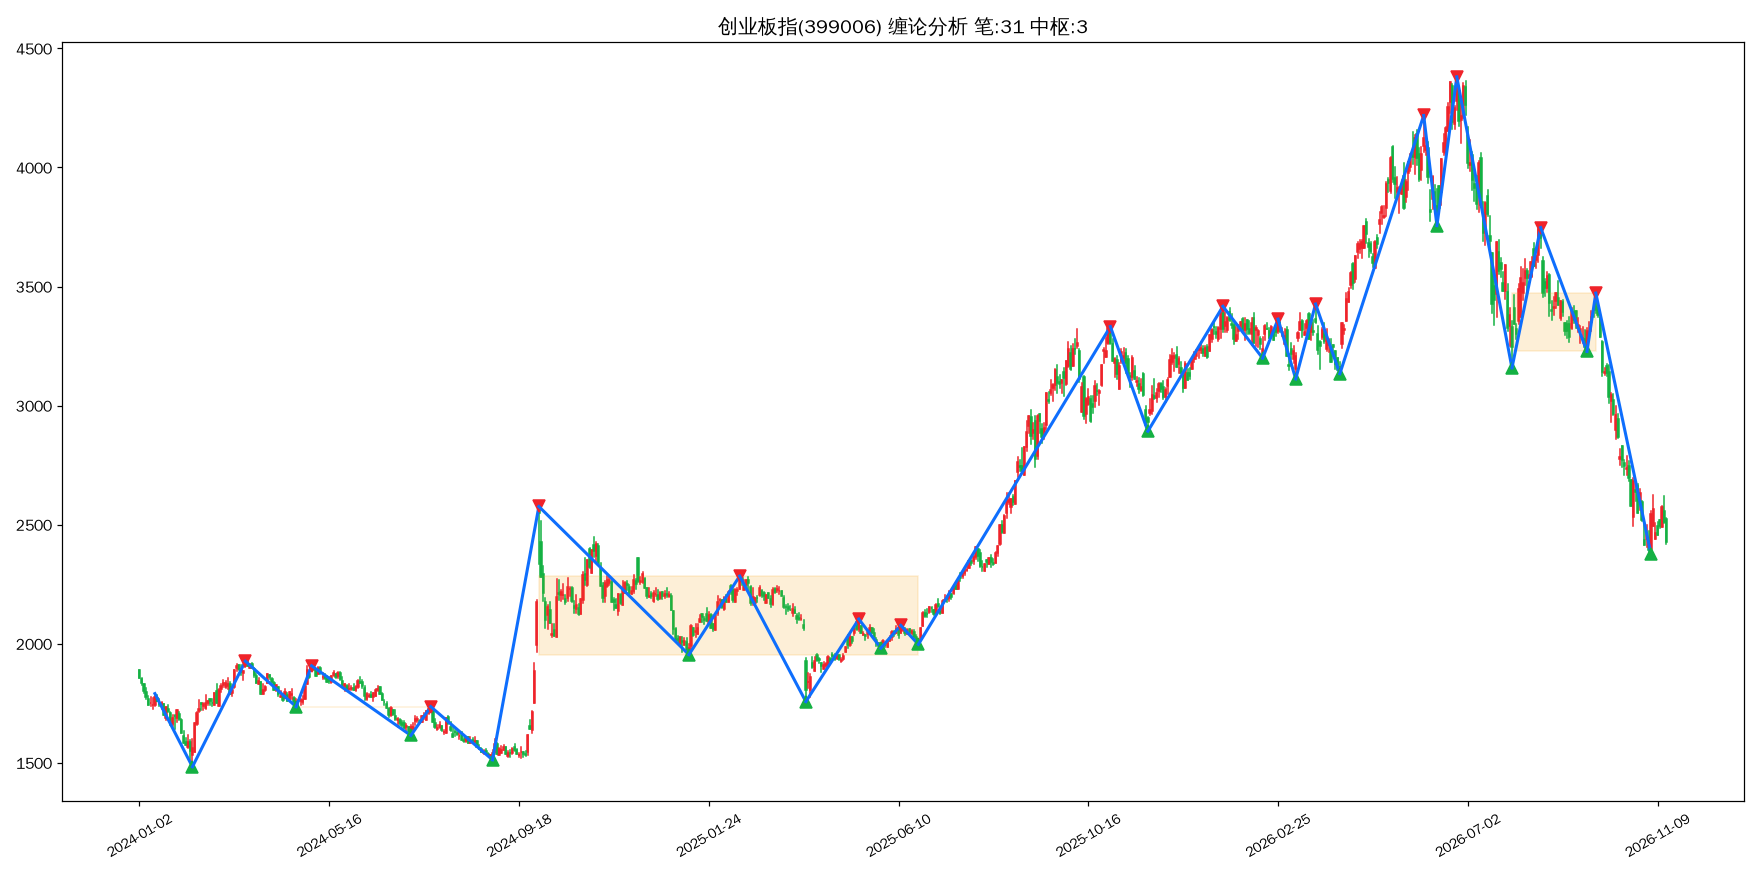
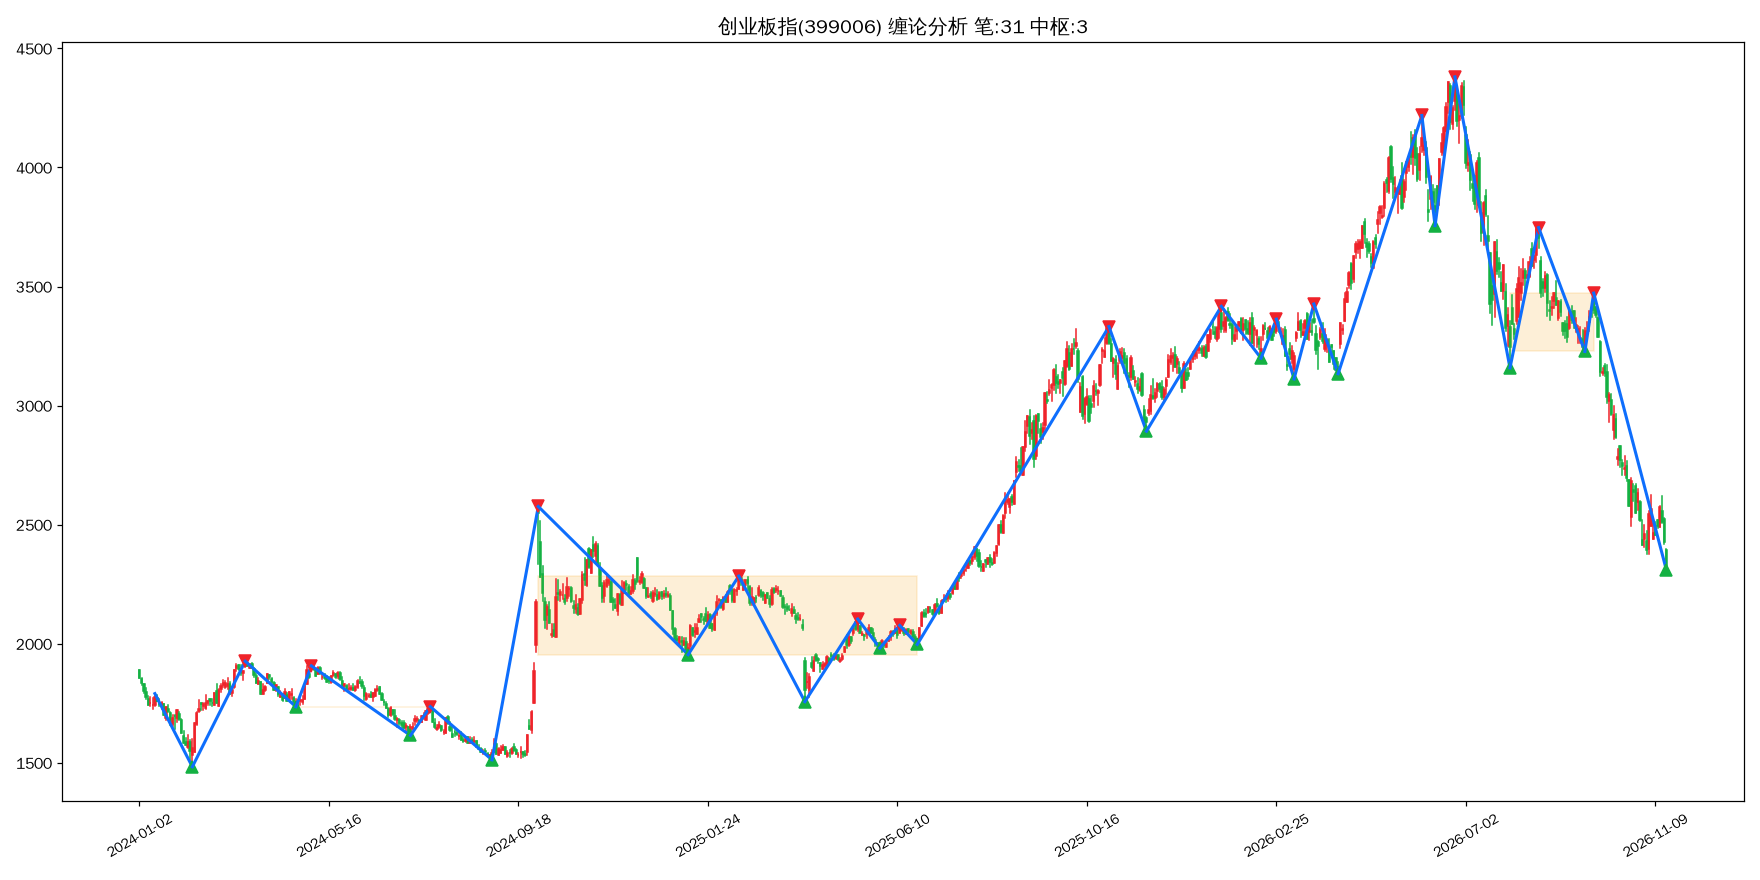
自动更新缠论日报与配图

diff --git a/chan_report.md b/chan_report.md
@@ -118,11 +118,29 @@
 - 三类买卖点识别：**卖1类@2025-10-09(13725.56)、卖2类@2025-10-30(13532.13)、卖1p类@2026-06-22(16372.50)、卖2类@2026-08-18(14622.50)、卖2s类@2026-09-22(13723.74)、买1类@2026-11-03(10876.99)**
 ![深证指数缠论图谱](chan_img/399001_深证指数.png)
 
-## 创业板指(399006)
-❌ 创业板指 分析失败：ConnectionError: 所有数据源失败: index_zh_a_hist: AttributeError: index_zh_a_hist 已在 1.20.44 更名为 index_zh_hist_em，请改用 ak.index_zh_hist_em；参数与返回的列也 | stock_zh_index_daily: AttributeError: stock_zh_index_daily 已在 1.20.44 更名为 i
+## 创业板指（399006）
+- 最新收盘价：2320.02
+- 有效K线数量：694
+- 笔总数：31 | 中枢总数：3
+- 最新一笔走势：下跌 | 2026-09-22~2026-11-16 | 3472.47 → 2308.90
+- 缠论背驰判断：**无背驰**
+- 三类买卖点识别：**买1类@2024-08-29(1541.40)、买2,3b类@2025-01-13(1982.46)、买2s类@2025-04-07(1807.21)、买2s类@2025-05-28(1985.38)、买2s类@2025-06-23(2017.63)、买3a类@2025-11-24(2929.04)、卖1p类@2026-01-13(3321.89)、卖2类@2026-02-25(3354.82)、买1类@2026-11-16(2320.02)**
+![创业板指缠论图谱](chan_img/399006_创业板指.png)
 
-## 沪深300(000300)
-❌ 沪深300 分析失败：ConnectionError: 所有数据源失败: index_zh_a_hist: AttributeError: index_zh_a_hist 已在 1.20.44 更名为 index_zh_hist_em，请改用 ak.index_zh_hist_em；参数与返回的列也 | stock_zh_index_daily: AttributeError: stock_zh_index_daily 已在 1.20.44 更名为 i
+## 沪深300（000300）
+- 最新收盘价：3979.804
+- 有效K线数量：694
+- 笔总数：43 | 中枢总数：4
+- 最新一笔走势：下跌 | 2026-11-05~2026-11-16 | 4136.80 → 3959.93
+- 缠论背驰判断：**无背驰**
+- 三类买卖点识别：**卖1类@2026-01-13(4761.03)、卖2类@2026-02-25(4735.89)、卖2s类@2026-03-17(4637.44)、买1类@2026-10-23(4105.33)、买2类@2026-11-16(3979.80)**
+![沪深300缠论图谱](chan_img/000300_沪深300.png)
 
-## 上证50(000016)
-❌ 上证50 分析失败：ConnectionError: 所有数据源失败: index_zh_a_hist: AttributeError: index_zh_a_hist 已在 1.20.44 更名为 index_zh_hist_em，请改用 ak.index_zh_hist_em；参数与返回的列也 | stock_zh_index_daily: AttributeError: stock_zh_index_daily 已在 1.20.44 更名为 i
+## 上证50（000016）
+- 最新收盘价：2766.574
+- 有效K线数量：694
+- 笔总数：36 | 中枢总数：4
+- 最新一笔走势：下跌 | 2026-11-05~2026-11-16 | 2813.90 → 2747.21
+- 缠论背驰判断：**下跌趋势背驰（关注阶段底部）**
+- 三类买卖点识别：**卖1类@2024-05-20(2532.82)、卖2类@2024-07-19(2456.79)、买1类@2026-10-23(2757.68)、买2类@2026-11-16(2766.57)**
+![上证50缠论图谱](chan_img/000016_上证50.png)
